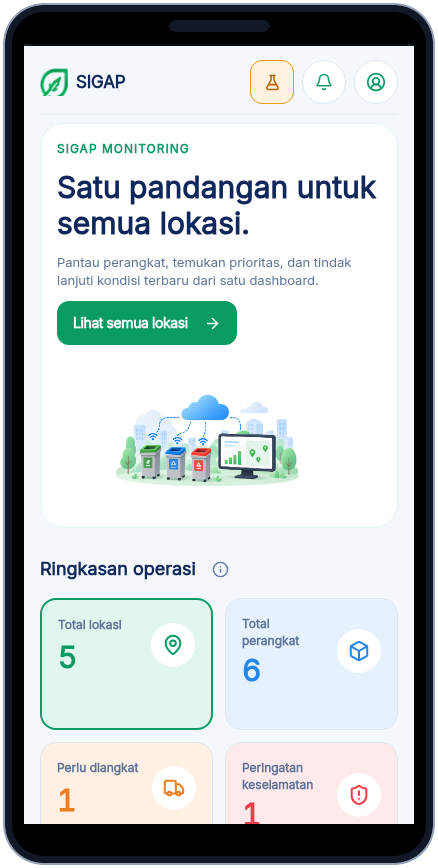
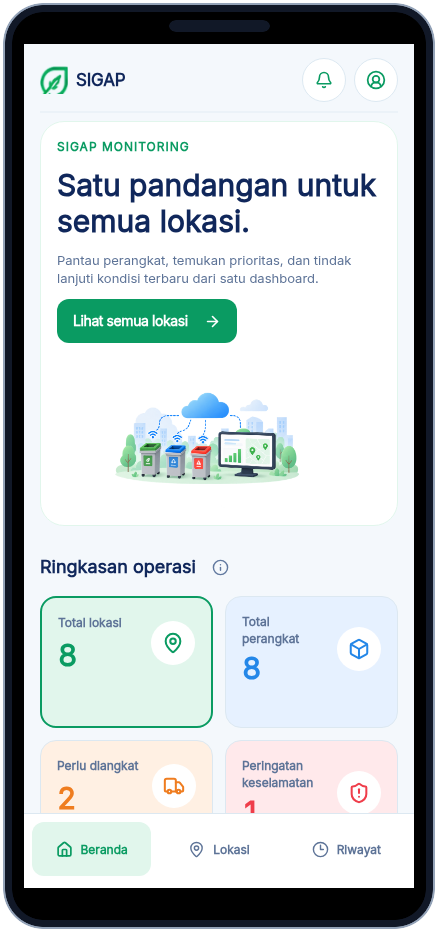
feat: refresh SIGAP simulation fixtures and evidence

diff --git a/components/SlotCard.tsx b/components/SlotCard.tsx
@@ -53,7 +53,7 @@ export function SlotCard({ slot, research = null }: SlotCardProps) {
   const decisionStatusLabel = decisionStatus ?? 'Belum tersedia';
   const showFinalStatus = shouldShowFinalStatus(decisionStatus, slot.status);
   const related = getRelatedSensorLabels(slot.stream);
-  return <Card borderWidth={1.5} borderColor={streamBorder[tone]} backgroundColor="$surface" borderRadius="$4" padding="$4" gap="$3" role="group" aria-label={`Slot ${streamLabel}`}><XStack justifyContent="space-between" alignItems="center" gap="$3"><XStack alignItems="center" gap="$3" flex={1} minWidth={0}>{streamArtwork[slot.stream] ? <RNImage source={streamArtwork[slot.stream]} accessibilityLabel={`Ilustrasi slot ${streamLabel}`} resizeMode="contain" style={{ width: 48, height: 52 }} /> : null}<YStack gap="$1" minWidth={0}><Text color="$color" {...textStyles.cardTitle} numberOfLines={1}>{streamLabel}</Text><Text color="$colorMuted" {...textStyles.caption}>Slot {streamLabel.toLowerCase()}</Text></YStack></XStack><StatusBadge status={slot.status} compact /></XStack><XStack alignItems="center" gap="$3" flexWrap="wrap"><SlotFillGauge value={slot.fill} tone={tone} /><YStack gap="$2" flex={1} minWidth={150} backgroundColor="$surfaceMuted" borderRadius="$3" padding="$3"><XStack justifyContent="space-between" gap="$2"><Text {...textStyles.metricLabel} color="$colorMuted">Keputusan angkut</Text><Text {...textStyles.bodySecondary} color="$color" fontWeight="700">{decisionStatusLabel}</Text></XStack><XStack justifyContent="space-between" gap="$2"><Text {...textStyles.metricLabel} color="$colorMuted">Prioritas angkut</Text><Text {...textStyles.bodySecondary} color="$color" fontWeight="700" fontVariant={['tabular-nums']}>{score === null ? scoreLabel(research) : `${Math.round(score)} / 100`}</Text></XStack>{showFinalStatus ? <XStack justifyContent="space-between" gap="$2"><Text {...textStyles.metricLabel} color="$colorMuted">Status akhir</Text><Text {...textStyles.bodySecondary} color="$color" fontWeight="700">{slot.status}</Text></XStack> : null}</YStack></XStack><MetricBar label="Utilisasi berat" value={slot.weight_utilization} tone={tone} compact unavailableLabel="—" /><XStack borderTopWidth={1} borderTopColor="$borderColor" paddingTop="$3" gap="$1">{metricItems.map(([label, value], index) => <SlotMetricCell key={label} icon={metricIcons[index]} value={value} label={label} accessibilityLabel={`${label}: ${value}`} />)}</XStack><DecisionInputs slot={slot} research={research} />{slot.stream === 'b3' ? <SafetyPanel research={research} /> : null}{slot.dominant_reason && slot.status && slot.status !== 'Normal' ? <YStack gap="$1" borderLeftWidth={3} borderLeftColor="$statusWaspada" backgroundColor="$statusWaspadaSoft" paddingHorizontal="$3" paddingVertical="$2" borderRadius="$2"><Text {...textStyles.overline} color="$statusWaspada">ALASAN KEPUTUSAN</Text><Text {...textStyles.bodySecondary} color="$color" numberOfLines={2}>{slot.dominant_reason}</Text></YStack> : null}{related.length ? <Text {...textStyles.caption} color="$colorMuted" numberOfLines={2}>Sensor terkait: {related.join(', ')}</Text> : null}</Card>;
+  return <Card borderWidth={1.5} borderColor={streamBorder[tone]} backgroundColor="$surface" borderRadius="$4" padding="$4" gap="$3" role="group" aria-label={`Slot ${streamLabel}`}><XStack justifyContent="space-between" alignItems="center" gap="$3"><XStack alignItems="center" gap="$3" flex={1} minWidth={0}>{streamArtwork[slot.stream] ? <RNImage source={streamArtwork[slot.stream]} accessibilityLabel={`Ilustrasi slot ${streamLabel}`} resizeMode="contain" style={{ width: 48, height: 52 }} /> : null}<YStack gap="$1" minWidth={0}><Text color="$color" {...textStyles.cardTitle} numberOfLines={1}>{streamLabel}</Text><Text color="$colorMuted" {...textStyles.caption}>Slot {streamLabel.toLowerCase()}</Text></YStack></XStack><StatusBadge status={slot.status} compact /></XStack><XStack alignItems="center" gap="$3" flexWrap="wrap"><SlotFillGauge value={slot.fill} tone={tone} /><YStack gap="$2" flex={1} minWidth={150} backgroundColor="$surfaceMuted" borderRadius="$3" padding="$3"><XStack justifyContent="space-between" gap="$2"><Text {...textStyles.metricLabel} color="$colorMuted">Keputusan angkut</Text><Text {...textStyles.bodySecondary} color="$color" fontWeight="700">{decisionStatusLabel}</Text></XStack><XStack justifyContent="space-between" gap="$2"><Text {...textStyles.metricLabel} color="$colorMuted">Prioritas angkut</Text><Text {...textStyles.bodySecondary} color="$color" fontWeight="700" fontVariant={['tabular-nums']}>{score === null ? scoreLabel(research) : `${Math.round(score)} / 100`}</Text></XStack>{showFinalStatus ? <XStack justifyContent="space-between" gap="$2"><Text {...textStyles.metricLabel} color="$colorMuted">Status akhir</Text><Text {...textStyles.bodySecondary} color="$color" fontWeight="700">{slot.status}</Text></XStack> : null}</YStack></XStack><MetricBar label="Utilisasi berat" value={slot.weight_utilization} tone={tone} compact unavailableLabel="—" /><XStack borderTopWidth={1} borderTopColor="$borderColor" paddingTop="$3" gap="$1">{metricItems.map(([label, value], index) => <SlotMetricCell key={label} icon={metricIcons[index]} value={value} label={label} accessibilityLabel={`${label}: ${value}`} />)}</XStack><DecisionInputs slot={slot} research={research} />{slot.stream === 'b3' ? <SafetyPanel research={research} /> : null}{related.length ? <Text {...textStyles.caption} color="$colorMuted" numberOfLines={2}>Sensor terkait: {related.join(', ')}</Text> : null}</Card>;
 }
 
 export const SlotVisualCard = SlotCard;

diff --git a/app/devices/[id].tsx b/app/devices/[id].tsx
@@ -18,7 +18,7 @@ import { apiClient } from '../../lib/api/client';
 import { usePollingResource } from '../../lib/api/hooks';
 import { ArrowLeft } from '../../lib/ui/icons';
 import type { CanonicalStatus, DeviceDetail, ResearchResponse } from '../../lib/api/types';
-import { formatTimestamp } from '../../lib/format';
+import { formatTimestamp, optionalText } from '../../lib/format';
 import { textStyles } from '../../lib/ui/typography';
 import { getStatusBadgePresentation } from '../../components/StatusBadge';
 
@@ -44,7 +44,7 @@ export default function DeviceDetailRoute() {
   return <AppShell title={data?.device_code ?? 'Detail device'} subtitle="Pantau kondisi perangkat dan metrik per slot." activePath="/locations" onNavigate={handleNavigate}><YStack gap="$6" paddingBottom="$6"><AppButton variant="ghost" size="sm" onPress={() => router.back()} ariaLabel="Kembali ke lokasi"><ArrowLeft size={17} color="#0A9B62" strokeWidth={2.3} aria-hidden={true} /> Kembali</AppButton>
     {stale && data ? <StaleNotice onRetry={retry} /> : null}{loading && !data ? <LoadingState label="Memuat detail device" rows={4} /> : null}{!data && !loading && error ? <ErrorState onRetry={retry} /> : null}
     {data ? <>
-      <Card borderWidth={1} borderColor="$primarySoft" backgroundColor="$surface" borderRadius="$5" padding={media.tablet ? '$6' : '$4'} overflow="hidden"><XStack alignItems="center" gap={media.tablet ? '$5' : '$4'} flexWrap="wrap"><YStack flex={1} minWidth={250} gap="$3"><Text color="$primary" fontSize="$2" fontWeight="800">DETAIL PERANGKAT</Text><Text color="$color" {...textStyles.pageTitle} $compact={textStyles.pageTitleCompact} letterSpacing={-1}>{data.device_code}</Text><Text color="$colorMuted" fontSize="$3">{data.placement_label ?? DEVICE_UNAVAILABLE_COPY}</Text><XStack gap="$2" flexWrap="wrap" alignItems="center"><StatusBadge status={data.status ?? (data.online_state === 'Offline' ? 'Offline' : null)} />{data.online_state === 'Offline' && data.status && data.status !== 'Offline' ? <StatusBadge status="Offline" /> : null}<Text color="$colorMuted" fontSize="$2">Terakhir terlihat: {formatTimestamp(data.last_seen)}</Text></XStack></YStack><DeviceDecisionSummary summary={researchData?.decision_summary} />{media.tablet ? <RNImage source={deviceArtwork} accessibilityLabel="Ilustrasi tiga jenis tempat sampah" resizeMode="contain" style={{ width: 260, height: 140, maxWidth: '100%' }} /> : null}</XStack></Card>
+      <Card borderWidth={1} borderColor="$primarySoft" backgroundColor="$surface" borderRadius="$5" padding={media.tablet ? '$6' : '$4'} overflow="hidden"><XStack alignItems="center" gap={media.tablet ? '$5' : '$4'} flexWrap="wrap"><YStack flex={1} minWidth={250} gap="$3"><Text color="$primary" fontSize="$2" fontWeight="800">DETAIL PERANGKAT</Text><Text color="$color" {...textStyles.pageTitle} $compact={textStyles.pageTitleCompact} letterSpacing={-1}>{data.device_code}</Text>{optionalText(data.placement_label) ? <Text color="$colorMuted" fontSize="$3">{optionalText(data.placement_label)}</Text> : null}<XStack gap="$2" flexWrap="wrap" alignItems="center"><StatusBadge status={data.status ?? (data.online_state === 'Offline' ? 'Offline' : null)} />{data.online_state === 'Offline' && data.status && data.status !== 'Offline' ? <StatusBadge status="Offline" /> : null}<Text color="$colorMuted" fontSize="$2">Terakhir terlihat: {formatTimestamp(data.last_seen)}</Text></XStack></YStack><DeviceDecisionSummary summary={researchData?.decision_summary} />{media.tablet ? <RNImage source={deviceArtwork} accessibilityLabel="Ilustrasi tiga jenis tempat sampah" resizeMode="contain" style={{ width: 260, height: 140, maxWidth: '100%' }} /> : null}</XStack></Card>
       <YStack gap="$3"><SectionHeader title="Kondisi slot" description="Pantau keterisian, kapasitas, dan kondisi setiap jenis sampah." />{data.slots.length ? <XStack gap="$3" flexWrap="wrap">{data.slots.map((slot) => <YStack key={slot.stream} width={media.wide ? 'calc(33.333% - 8px)' : media.tablet ? 'calc(50% - 6px)' : '100%'}><SlotCard slot={slot} research={researchData?.slots.find((item) => item.stream === slot.stream)} /></YStack>)}</XStack> : <EmptyState title="Belum ada data slot" description="Metrik slot akan muncul setelah device mengirimkan pembacaan terbaru." />}</YStack>
       <ResearchPanel key={id ?? 'research'} data={researchData} loading={researchLoading} error={researchError} onRetry={retryResearch} />
     </> : null}

diff --git a/app/locations/[id].tsx b/app/locations/[id].tsx
@@ -15,6 +15,7 @@ import { apiClient } from '../../lib/api/client';
 import { usePollingResource } from '../../lib/api/hooks';
 import { ArrowLeft } from '../../lib/ui/icons';
 import { resolveLocationImage } from '../../lib/ui/assets';
+import { optionalText } from '../../lib/format';
 import { textStyles } from '../../lib/ui/typography';
 import type { LocationDetail } from '../../lib/api/types';
 
@@ -36,7 +37,7 @@ export default function LocationDetailRoute() {
   return <AppShell title={data?.name ?? 'Detail lokasi'} subtitle="Kelola perangkat dan kondisi slot di area ini." activePath="/locations" onNavigate={handleNavigate}><YStack gap="$6" paddingBottom="$6"><AppButton variant="ghost" size="sm" onPress={() => router.back()} ariaLabel="Kembali ke lokasi"><ArrowLeft size={17} color="#0A9B62" strokeWidth={2.3} aria-hidden={true} /> Kembali ke lokasi</AppButton>
     {stale && data ? <StaleNotice onRetry={retry} /> : null}{loading && !data ? <LoadingState label="Memuat detail lokasi" rows={3} /> : null}{!data && !loading && error ? <ErrorState onRetry={retry} /> : null}
     {data ? <>
-      <Card borderWidth={1} borderColor="$primarySoft" backgroundColor="$surface" borderRadius="$5" padding="$6" overflow="hidden"><XStack alignItems="center" gap="$5" flexWrap="wrap"><YStack flex={1} minWidth={240} gap="$3"><Text color="$primary" fontSize="$2" fontWeight="800">RINGKASAN LOKASI</Text><Text color="$color" {...textStyles.pageTitle} $compact={textStyles.pageTitleCompact} letterSpacing={-1}>{data.name}</Text><Text color="$colorMuted" fontSize="$3">{data.address_text ?? 'Alamat belum tersedia'}</Text><XStack alignItems="center" gap="$3" flexWrap="wrap"><StatusBadge status={data.status} /><Text color="$colorMuted" fontSize="$2">{data.devices.length} device terhubung</Text></XStack></YStack><RNImage source={resolveLocationImage(data.name)} accessibilityLabel={`Ilustrasi ${data.name}`} resizeMode="contain" style={{ width: 300, height: 150, maxWidth: '100%' }} /></XStack></Card>
+      <Card borderWidth={1} borderColor="$primarySoft" backgroundColor="$surface" borderRadius="$5" padding="$6" overflow="hidden"><XStack alignItems="center" gap="$5" flexWrap="wrap"><YStack flex={1} minWidth={240} gap="$3"><Text color="$primary" fontSize="$2" fontWeight="800">RINGKASAN LOKASI</Text><Text color="$color" {...textStyles.pageTitle} $compact={textStyles.pageTitleCompact} letterSpacing={-1}>{data.name}</Text>{optionalText(data.address_text) ? <Text color="$colorMuted" fontSize="$3">{optionalText(data.address_text)}</Text> : null}<XStack alignItems="center" gap="$3" flexWrap="wrap"><StatusBadge status={data.status} /><Text color="$colorMuted" fontSize="$2">{data.devices.length} device terhubung</Text></XStack></YStack><RNImage source={resolveLocationImage(data.name)} accessibilityLabel={`Ilustrasi ${data.name}`} resizeMode="contain" style={{ width: 300, height: 150, maxWidth: '100%' }} /></XStack></Card>
       <YStack gap="$3"><SectionHeader title="Perangkat terhubung" description={`Perangkat di ${data.name}, dengan tiga slot operasional.`} action={<Text color="$colorMuted" fontSize="$2">{data.devices.length} perangkat</Text>} />{data.devices.length ? <XStack gap="$3" flexWrap="wrap">{data.devices.map((device) => <YStack key={device.id} width="100%" $tablet={{ width: 'calc(50% - 6px)' }} $wide={{ width: 'calc(33.333% - 8px)' }}><Link href={deviceDetailHref(device.id)} asChild><DeviceCard device={device} locationName={data.name} /></Link></YStack>)}</XStack> : <EmptyState title={LOCATION_EMPTY_DEVICES_COPY.title} description={LOCATION_EMPTY_DEVICES_COPY.description} />}</YStack>
     </> : null}
   </YStack></AppShell>;

diff --git a/app/history/index.tsx b/app/history/index.tsx
@@ -14,6 +14,7 @@ import { LoadingState } from '../../components/LoadingState';
 import { StatusBadge } from '../../components/StatusBadge';
 import { apiClient } from '../../lib/api/client';
 import { usePollingResource } from '../../lib/api/hooks';
+import { optionalText } from '../../lib/format';
 import type {
   CanonicalStatus,
   HistoryCursor,
@@ -224,6 +225,7 @@ function HistoryRow({ item, compact }: { item: HistoryItem; compact: boolean }) 
   const animatedWeight = useAnimatedNumber(item.weight, { precision: 1 });
   const fillLabel = compactMetric(animatedFill, '%');
   const weightLabel = compactMetric(animatedWeight, ' kg');
+  const placement = optionalText(item.placement_label);
   if (compact) {
     return (
       <Card borderWidth={1} borderColor="$borderColor" backgroundColor="$surface" borderRadius="$4" padding="$4" gap="$3" role="article" aria-label={`Riwayat ${item.device_code} ${historyStreamLabel(item.stream)}`} transition={reduceMotion ? undefined : 'standard'} enterStyle={reduceMotion ? undefined : { opacity: 0, y: 4 }}>
@@ -231,7 +233,7 @@ function HistoryRow({ item, compact }: { item: HistoryItem; compact: boolean }) 
           <YStack flex={1} minWidth={0} gap="$1">
             <Text color="$color" {...textStyles.cardTitle} numberOfLines={1}>{item.device_code || '—'}</Text>
             <Text color="$colorMuted" {...textStyles.bodySecondary} numberOfLines={1}>{item.location_name || '—'}</Text>
-            <Text color="$colorMuted" {...textStyles.caption} numberOfLines={1}>{item.placement_label || '—'}</Text>
+            {placement ? <Text color="$colorMuted" {...textStyles.caption} numberOfLines={1}>{placement}</Text> : null}
           </YStack>
           <StatusBadge status={status} compact />
         </XStack>
@@ -252,7 +254,7 @@ function HistoryRow({ item, compact }: { item: HistoryItem; compact: boolean }) 
   return (
     <YStack role="row" transition={reduceMotion ? undefined : 'standard'} enterStyle={reduceMotion ? undefined : { opacity: 0, y: 3 }}>
       <XStack alignItems="center" gap="$3" paddingHorizontal="$4" paddingVertical="$3" minHeight={64} borderBottomWidth={1} borderBottomColor="$borderColor" hoverStyle={{ backgroundColor: '$surfaceMuted' }}>
-        <YStack width={210} minWidth={180} gap="$1"><Text color="$color" {...textStyles.metadata} fontWeight="700" numberOfLines={1}>{item.device_code || '—'}</Text><Text color="$colorMuted" {...textStyles.caption} numberOfLines={1}>{item.placement_label || '—'}</Text></YStack>
+        <YStack width={210} minWidth={180} gap="$1"><Text color="$color" {...textStyles.metadata} fontWeight="700" numberOfLines={1}>{item.device_code || '—'}</Text>{placement ? <Text color="$colorMuted" {...textStyles.caption} numberOfLines={1}>{placement}</Text> : null}</YStack>
         <YStack flex={1} minWidth={145}><Text color="$color" {...textStyles.metadata} numberOfLines={1}>{item.location_name || '—'}</Text></YStack>
         <XStack width={105} minWidth={95} alignItems="center" gap="$2"><YStack width={8} height={8} borderRadius={99} backgroundColor={streamColor} /><Text color="$color" {...textStyles.bodySecondary}>{historyStreamLabel(item.stream)}</Text></XStack>
         <YStack width={180} minWidth={170} alignItems="flex-start"><StatusBadge status={status} compact /></YStack>

diff --git a/components/LocationCard.tsx b/components/LocationCard.tsx
@@ -5,6 +5,7 @@ import { Button, Card, Text, XStack, YStack } from 'tamagui';
 import { ChevronRight } from '../lib/ui/icons';
 import { resolveLocationImage } from '../lib/ui/assets';
 import { textStyles } from '../lib/ui/typography';
+import { optionalText } from '../lib/format';
 import { StatusBadge } from './StatusBadge';
 import { useReducedMotion } from '../lib/ui/motionContext';
 
@@ -18,7 +19,7 @@ export interface LocationCardProps {
 
 export function LocationCard({ location, deviceCount, onPress, onDetail, selected = false }: LocationCardProps) {
   const reduceMotion = useReducedMotion();
-  const address = location.address_text ?? 'Belum tersedia';
+  const address = optionalText(location.address_text);
   const deviceLabel = deviceCount === null || deviceCount === undefined ? 'Belum tersedia' : `${deviceCount}`;
 
   const cardContent = (
@@ -27,7 +28,7 @@ export function LocationCard({ location, deviceCount, onPress, onDetail, selecte
         <RNImage source={resolveLocationImage(location.name)} accessibilityLabel={`Ilustrasi ${location.name}`} resizeMode="contain" style={{ width: 64, height: 56 }} />
         <YStack flex={1} minWidth={0} gap="$1">
           <Text color="$color" {...textStyles.cardTitle} $compact={textStyles.cardTitleCompact} alignSelf="stretch" textAlign="left" minHeight={48} numberOfLines={2}>{location.name}</Text>
-          <Text color="$colorMuted" {...textStyles.bodySecondary} alignSelf="stretch" textAlign="left" minHeight={44} numberOfLines={2}>{address}</Text>
+          {address ? <Text color="$colorMuted" {...textStyles.bodySecondary} alignSelf="stretch" textAlign="left" numberOfLines={2}>{address}</Text> : null}
         </YStack>
       </XStack>
       <XStack alignItems="center" gap="$2" marginTop="$1" flexWrap="wrap" rowGap="$1">

diff --git a/components/DeviceCard.tsx b/components/DeviceCard.tsx
@@ -1,5 +1,5 @@
 import type { DeviceDTO } from '../lib/api/types';
-import { formatTimestamp } from '../lib/format';
+import { formatTimestamp, optionalText } from '../lib/format';
 import { getStreamTone } from '../lib/ui/slotPresentation';
 import b3Artwork from '../assets/bin_b3_single_faithful.png';
 import inorganicArtwork from '../assets/bin_inorganic_single_faithful.png';
@@ -32,7 +32,7 @@ export function DeviceCard({ device, onPress, locationName }: DeviceCardProps) {
   const reduceMotion = useReducedMotion();
   const onlineLabel = device.online_state ?? 'Belum tersedia';
   const lastSeen = formatTimestamp(device.last_seen);
-  const placement = device.placement_label ?? 'Belum tersedia';
+  const deviceContext = [optionalText(locationName), optionalText(device.placement_label)].filter(Boolean).join(' · ');
 
   return (
     <Card
@@ -62,9 +62,7 @@ export function DeviceCard({ device, onPress, locationName }: DeviceCardProps) {
           <Text color="$color" {...textStyles.cardTitle} $compact={textStyles.cardTitleCompact} alignSelf="stretch" textAlign="left" minHeight={28} numberOfLines={1} ellipsizeMode="tail">
             {device.device_code}
           </Text>
-          <Text color="$colorMuted" {...textStyles.bodySecondary} alignSelf="stretch" textAlign="left" minHeight={44} numberOfLines={2}>
-            {locationName ? `${locationName} · ${placement}` : placement}
-          </Text>
+          {deviceContext ? <Text color="$colorMuted" {...textStyles.bodySecondary} alignSelf="stretch" textAlign="left" numberOfLines={2}>{deviceContext}</Text> : null}
         </YStack>
       </XStack>
       <XStack flexWrap="wrap" gap="$2" alignItems="center" justifyContent="space-between" paddingVertical="$1">

diff --git a/lib/status.test.ts b/lib/status.test.ts
@@ -1,7 +1,7 @@
 import { describe, expect, it } from 'vitest';
 
 import { getStatusPresentation, isCanonicalStatus } from './status';
-import { formatNullableMetric } from './format';
+import { formatNullableMetric, optionalText } from './format';
 
 describe('status presentation', () => {
   it('maps every canonical API status to an Indonesian label and stable token', () => {
@@ -30,5 +30,11 @@ describe('status presentation', () => {
     expect(formatNullableMetric(3.0000000001)).toBe('3');
     expect(formatNullableMetric(3.25, '%')).toBe('3.25%');
     expect(formatNullableMetric(42.5, '%')).toBe('42.5%');
+  });
+
+  it('omits blank optional location metadata while preserving populated labels', () => {
+    expect(optionalText(null)).toBeNull();
+    expect(optionalText('   ')).toBeNull();
+    expect(optionalText('Gedung A / Biru')).toBe('Gedung A / Biru');
   });
 });

diff --git a/lib/format.ts b/lib/format.ts
@@ -11,3 +11,8 @@ export function formatTimestamp(value: string | null | undefined): string {
   if (Number.isNaN(date.getTime())) return 'Belum tersedia';
   return new Intl.DateTimeFormat('id-ID', { dateStyle: 'medium', timeStyle: 'short' }).format(date);
 }
+
+export function optionalText(value: string | null | undefined): string | null {
+  const normalized = value?.trim();
+  return normalized || null;
+}

diff --git a/internal/simulator/seed.go b/internal/simulator/seed.go
@@ -20,6 +20,7 @@ type Device struct {
 	Code       string
 	LocationID string
 	Placement  string
+	SlotKey    string
 	Token      string
 }
 
@@ -70,20 +71,33 @@ func Seed(ctx context.Context, db *sql.DB, seed int64) (Dataset, error) {
 
 func defaultDataset(seed int64) Dataset {
 	locations := []Location{
-		{ID: "sim-location-main", Name: "SIM - Gedung Utama", Address: "Area simulasi gedung utama"},
-		{ID: "sim-location-canteen", Name: "SIM - Kantin", Address: "Area simulasi kantin"},
-		{ID: "sim-location-lab", Name: "SIM - Laboratorium", Address: "Area simulasi laboratorium"},
+		{ID: "sim-location-main", Name: "Gedung A / Biru"},
+		{ID: "sim-location-canteen", Name: "Gedung B"},
+		{ID: "sim-location-lab", Name: "Gedung E"},
+		{ID: "sim-location-sports", Name: "Lapangan Olahraga"},
+		{ID: "sim-location-motor", Name: "Parkiran Motor"},
+		{ID: "sim-location-mobil", Name: "Parkiran Mobil"},
+		{ID: "sim-location-masjid", Name: "Masjid As-Sakinah"},
+		{ID: "sim-location-asrama", Name: "Asrama"},
 	}
 	devices := []Device{
-		{ID: "sim-device-lobby", Code: "SIM-LOBBY-01", LocationID: "sim-location-main", Placement: "Lobi gedung utama", Token: simulationToken(seed, "SIM-LOBBY-01")},
-		{ID: "sim-device-floor2", Code: "SIM-FLOOR2-01", LocationID: "sim-location-main", Placement: "Lantai 2 gedung utama", Token: simulationToken(seed, "SIM-FLOOR2-01")},
-		{ID: "sim-device-canteen", Code: "SIM-CANTEEN-01", LocationID: "sim-location-canteen", Placement: "Pintu masuk kantin", Token: simulationToken(seed, "SIM-CANTEEN-01")},
-		{ID: "sim-device-lab", Code: "SIM-LAB-01", LocationID: "sim-location-lab", Placement: "Koridor laboratorium", Token: simulationToken(seed, "SIM-LAB-01")},
+		{ID: "sim-device-lobby", Code: "SIGAP-GA-01", LocationID: "sim-location-main", SlotKey: "lobby-01", Token: simulationToken(seed, "SIGAP-GA-01")},
+		{ID: "sim-device-floor2", Code: "SIGAP-GB-01", LocationID: "sim-location-canteen", SlotKey: "floor2-01", Token: simulationToken(seed, "SIGAP-GB-01")},
+		{ID: "sim-device-canteen", Code: "SIGAP-GE-01", LocationID: "sim-location-lab", SlotKey: "canteen-01", Token: simulationToken(seed, "SIGAP-GE-01")},
+		{ID: "sim-device-lab", Code: "SIGAP-LO-01", LocationID: "sim-location-sports", SlotKey: "lab-01", Token: simulationToken(seed, "SIGAP-LO-01")},
+		{ID: "sim-device-motor", Code: "SIGAP-PM-01", LocationID: "sim-location-motor", Token: simulationToken(seed, "SIGAP-PM-01")},
+		{ID: "sim-device-mobil", Code: "SIGAP-PB-01", LocationID: "sim-location-mobil", Token: simulationToken(seed, "SIGAP-PB-01")},
+		{ID: "sim-device-masjid", Code: "SIGAP-MAS-01", LocationID: "sim-location-masjid", Token: simulationToken(seed, "SIGAP-MAS-01")},
+		{ID: "sim-device-asrama", Code: "SIGAP-ASR-01", LocationID: "sim-location-asrama", Token: simulationToken(seed, "SIGAP-ASR-01")},
 	}
 	slots := make([]Slot, 0, len(devices)*3)
 	for _, device := range devices {
+		slotKey := device.SlotKey
+		if slotKey == "" {
+			slotKey = strings.ToLower(strings.TrimPrefix(device.Code, "SIGAP-"))
+		}
 		for _, stream := range []string{"organic", "inorganic", "b3"} {
-			slots = append(slots, Slot{ID: "sim-slot-" + strings.ToLower(strings.TrimPrefix(device.Code, "SIM-")) + "-" + stream, DeviceID: device.ID, Stream: stream})
+			slots = append(slots, Slot{ID: "sim-slot-" + slotKey + "-" + stream, DeviceID: device.ID, Stream: stream})
 		}
 	}
 	return Dataset{Locations: locations, Devices: devices, Slots: slots}

diff --git a/internal/simulator/seed_test.go b/internal/simulator/seed_test.go
@@ -25,8 +25,22 @@ func TestSeedIsIdempotentAndCreatesExpectedDataset(t *testing.T) {
 	if err != nil {
 		t.Fatal(err)
 	}
-	if len(first.Locations) != 3 || len(first.Devices) != 4 || len(first.Slots) != 12 {
+	if len(first.Locations) != 8 || len(first.Devices) != 8 || len(first.Slots) != 24 {
 		t.Fatalf("dataset locations=%d devices=%d slots=%d", len(first.Locations), len(first.Devices), len(first.Slots))
+	}
+	wantLocations := []string{"Gedung A / Biru", "Gedung B", "Gedung E", "Lapangan Olahraga", "Parkiran Motor", "Parkiran Mobil", "Masjid As-Sakinah", "Asrama"}
+	for index, wantName := range wantLocations {
+		location := first.Locations[index]
+		if location.Name != wantName || location.Address != "" {
+			t.Fatalf("location[%d]=%+v want name=%q with empty address", index, location, wantName)
+		}
+	}
+	wantDeviceCodes := []string{"SIGAP-GA-01", "SIGAP-GB-01", "SIGAP-GE-01", "SIGAP-LO-01", "SIGAP-PM-01", "SIGAP-PB-01", "SIGAP-MAS-01", "SIGAP-ASR-01"}
+	for index, wantCode := range wantDeviceCodes {
+		device := first.Devices[index]
+		if device.Code != wantCode || device.Placement != "" {
+			t.Fatalf("device[%d]=%+v want code=%q with empty placement", index, device, wantCode)
+		}
 	}
 	if first.Devices[0].Token != second.Devices[0].Token {
 		t.Fatal("seed token is not deterministic")
@@ -36,7 +50,7 @@ func TestSeedIsIdempotentAndCreatesExpectedDataset(t *testing.T) {
 		if err := db.QueryRow(`SELECT COUNT(*) FROM ` + table + ` WHERE id LIKE 'sim-%'`).Scan(&count); err != nil {
 			t.Fatal(err)
 		}
-		want := map[string]int{"locations": 3, "devices": 4, "slots": 12}[table]
+		want := map[string]int{"locations": 8, "devices": 8, "slots": 24}[table]
 		if count != want {
 			t.Fatalf("%s count=%d want=%d", table, count, want)
 		}
@@ -82,7 +96,25 @@ func TestSeedRefreshesCredentialDigestWhenSeedChanges(t *testing.T) {
 	if err := db.QueryRow(`SELECT COUNT(*) FROM devices WHERE id LIKE 'sim-%'`).Scan(&devices); err != nil {
 		t.Fatal(err)
 	}
-	if devices != 4 {
-		t.Fatalf("devices=%d want=4 after reseed", devices)
+	if devices != 8 {
+		t.Fatalf("devices=%d want=8 after reseed", devices)
+	}
+}
+
+func TestDefaultDatasetRetainsLegacySlotIDsForRenamedDevices(t *testing.T) {
+	dataset := defaultDataset(42)
+	ids := make(map[string]bool, len(dataset.Slots))
+	for _, slot := range dataset.Slots {
+		ids[slot.ID] = true
+	}
+	for _, wantID := range []string{
+		"sim-slot-lobby-01-organic",
+		"sim-slot-floor2-01-organic",
+		"sim-slot-canteen-01-organic",
+		"sim-slot-lab-01-organic",
+	} {
+		if !ids[wantID] {
+			t.Fatalf("missing stable slot id %q", wantID)
+		}
 	}
 }

diff --git a/README.md b/README.md
@@ -59,7 +59,7 @@ cp .env.simulation.example .env.simulation
 
 Runner simulasi terlebih dahulu menjalankan release build agar Expo SPA benar-benar masuk ke binary Go, lalu menjalankan binary tersebut dengan environment simulasi. Ini diperlukan karena clean checkout hanya menyimpan placeholder untuk `go:embed`, bukan bundle frontend generated.
 
-Buka `http://localhost:8080`. Simulator membuat 3 lokasi, 4 device, dan 12 slot. ID database simulator memakai prefix `sim-`, sedangkan device code yang terlihat di UI memakai prefix `SIM-`. Simulator lalu mengirim telemetry melalui authenticated ingest. Siklus demo mencakup Normal, Waspada, Angkat, Safety Alert, Data Invalid, Offline, dan Recovery. Simulation payload menyediakan Fill Sensor, HX711, MQ-135, MQ-4, MQ-7, MQ-8, dan DS18B20 sesuai stream, beserta empat input collection FIS: fill, weight utilization, OGI, dan accumulation time. MQ ditampilkan sebagai raw atau normalized index, bukan ppm, karena simulator tidak menyediakan calibration model. Data sintetis, profile FIS, dan safety threshold pada mode ini hanya fixture demo, bukan kalibrasi production atau research.
+Buka `http://localhost:8080`. Simulator membuat 8 lokasi, 8 device, dan 24 slot. ID database simulator memakai prefix `sim-`, sedangkan device code yang terlihat di UI memakai prefix `SIGAP-`. Simulator lalu mengirim telemetry melalui authenticated ingest. Siklus demo mencakup Normal, Waspada, Angkat, Safety Alert, Data Invalid, Offline, dan Recovery. Simulation payload menyediakan Fill Sensor, HX711, MQ-135, MQ-4, MQ-7, MQ-8, dan DS18B20 sesuai stream, beserta empat input collection FIS: fill, weight utilization, OGI, dan accumulation time. MQ ditampilkan sebagai raw atau normalized index, bukan ppm, karena simulator tidak menyediakan calibration model. Data sintetis, profile FIS, dan safety threshold pada mode ini hanya fixture demo, bukan kalibrasi production atau research.
 
 `SIGAP_SIMULATION_INTERVAL_SECONDS` harus bilangan bulat positif. `SIGAP_SIMULATION_SEED` membuat variasi kecil dapat direproduksi dan merotasi credential simulator lokal saat database yang sama digunakan kembali. Untuk memulai ulang data demo, hapus database secara manual:
 

diff --git a/docs/screenshots/README.md b/docs/screenshots/README.md
@@ -1,13 +1,13 @@
 # SIGAP application screenshots
 
-Desktop and mobile captures are divided into normal viewport-sized frames in scroll order, so the full interface can be reviewed without an unrealistically tall image. The captures use synthetic local fixture data and do not represent production telemetry.
+Desktop and mobile captures are divided into normal viewport-sized frames in scroll order, so the full interface can be reviewed without an unrealistically tall image. The captures use synthetic local fixture data for Gedung A / Biru, Gedung B, Gedung E, Lapangan Olahraga, Parkiran Motor, Parkiran Mobil, Masjid As-Sakinah, and Asrama. They do not represent production telemetry.
 
 | Page | Desktop | Mobile |
 | --- | --- | --- |
 | Home | [01 overview](home/desktop/01-overview.png) | [01 top](home/mobile/01-top-framed.png), [02 scroll](home/mobile/02-scroll-framed.png), [03 bottom](home/mobile/03-bottom-framed.png) |
 | Locations | [01 overview](locations/desktop/01-overview.png) | [01 top](locations/mobile/01-top-framed.png), [02 scroll](locations/mobile/02-scroll-framed.png), [03 bottom](locations/mobile/03-bottom-framed.png) |
 | Location detail | [01 overview](location-detail/desktop/01-overview.png) | [01 overview](location-detail/mobile/01-overview-framed.png) |
-| Device detail | [01 overview](device-detail/desktop/01-overview.png) | [01 top](device-detail/mobile/01-top-framed.png) through [09 bottom](device-detail/mobile/09-bottom-framed.png) |
+| Device detail | [01 overview](device-detail/desktop/01-overview.png), [02 research](device-detail/desktop/02-research.png) | [01 top](device-detail/mobile/01-top-framed.png) through [09 bottom](device-detail/mobile/09-bottom-framed.png) |
 | History | [01 top](history/desktop/01-top.png), [02 bottom](history/desktop/02-bottom.png) | [01 top](history/mobile/01-top-framed.png) through [06 bottom](history/mobile/06-bottom-framed.png) |
 
 The numbered desktop and mobile files are ordered from the top of the page to the bottom. Files between the linked first and last frame are the intervening scroll positions.
